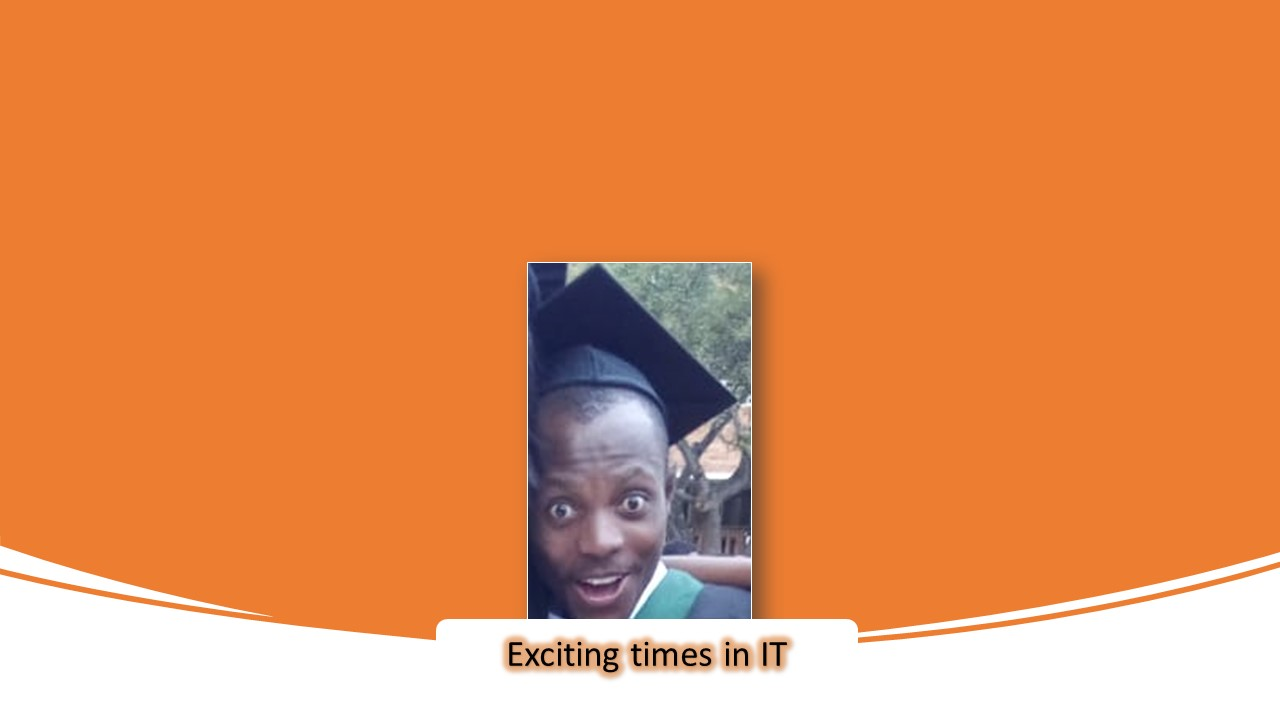
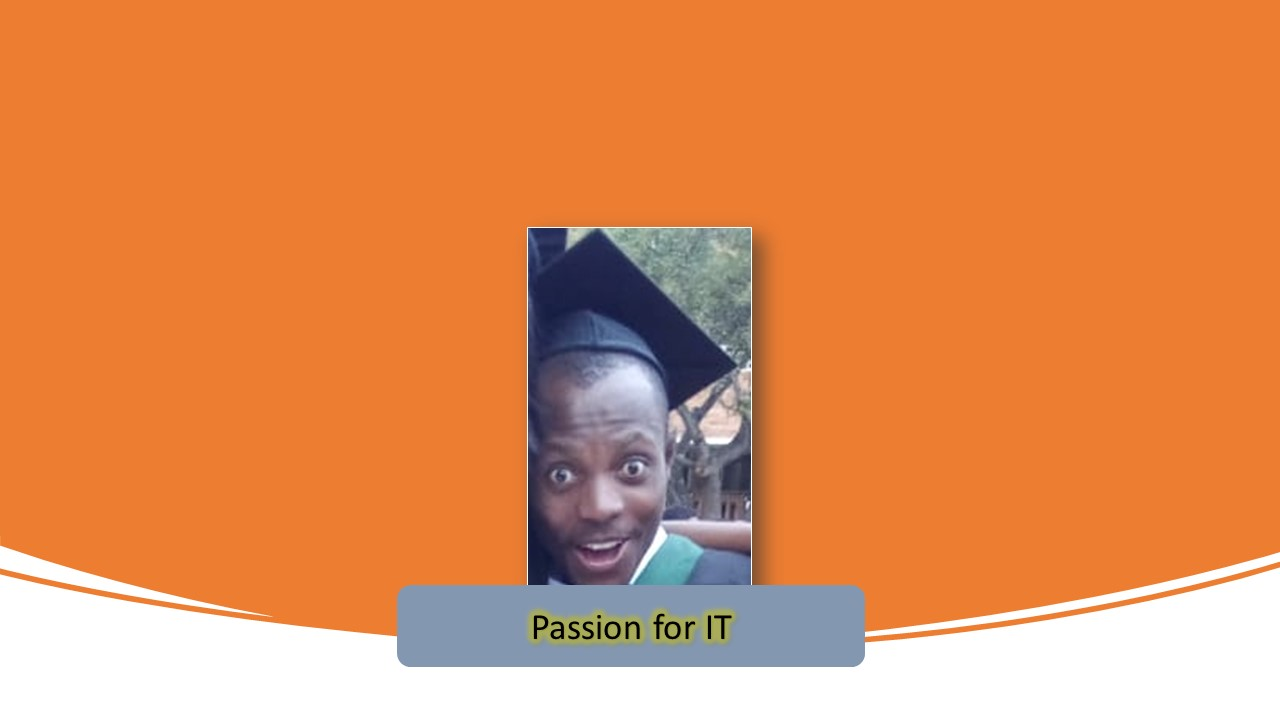
Edited standard-page.html, Slide2.JPG, Slide1.JPG and Slide3.JPG

Changed region(s): [[0.3125, 0.3056, 0.6875, 0.9472]]

diff --git a/theme/assets/standard-page.html b/theme/assets/standard-page.html
@@ -46,10 +46,7 @@
         color: #333;
       }
 
-      /*       .tabs li a:hover {
-      background-color: lightgray;
-      } */
-      .tabs a {
+        .tabs a {
         display: block;
         padding: 10px;
         background-color: #3498db;
@@ -57,10 +54,6 @@
         text-decoration: none;
         border-radius: 5px;
       }
-
-      /*       .tabs a:hover {
-      background-color: Red; /* Change the color on hover */
-      } */
 
       .hexagonal-container {
         width: auto;
@@ -74,6 +67,7 @@
         height: auto;
         object-fit: cover;
         clip-path: polygon(0 0, 100% 0, 100% 100%, 0 100%, 0 50%);
+        clip-path: inset(22% 0 0 0);
         border-radius: 10px;
         background-clip: padding-box;
         mask-image: linear-gradient(to top, transparent 10%, white, white 90%, transparent);
@@ -120,7 +114,7 @@
       .slideshow-container {
         /*         background-color:#40E0D0;  */
         position: relative;
-        height: 50vh;
+        height: 45vh;
         overflow: hidden;
         display: flex;
         justify-content: center;
@@ -138,12 +132,12 @@
         display: flex;
         justify-content: center;
         align-items: center;
-        animation: slide-animation 50s linear infinite;
+        animation: slide-animation 55s linear infinite;
       }
 
       .slideshow img {
         filter: brightness(1.2) contrast(1.5) saturate(1.2);
-        height: 50vh; /* Adjust the image height as needed */
+        height: 40vh; /* Adjust the image height as needed */
         width: auto; /* Automatically adjust the width */
         object-fit: contain; /* Maintain aspect ratio and fit within the container */
       }
@@ -216,16 +210,6 @@
 
       }
 
-      .me-content {
-        display: flex;
-        align-items: center;
-        justify-content: center;
-      }
-
-      .me-content span {
-        padding: 10px;
-      }
-
     </style>
 
   </head>
@@ -251,7 +235,7 @@
     <main>
 
       <div class="message">
-        <span class="moving-text">Please feel free to click on any of the tabs above,To know about me &#x1F914;</span>
+        <span class="moving-text"><br>Please feel free to click on any of the tabs above,To know about me &#x1F914;</span>
       </div>
       <div class="about-site">
         <h1>Hello! </h1>
@@ -297,14 +281,14 @@
 
     <script src="https://cdnjs.cloudflare.com/ajax/libs/font-awesome/5.15.3/js/all.min.js"></script>
 
-    <div class="me-content">
 
-      <span>Names: Thabang Rapotu</span>
-      <span>Email: rapotuti@gmail.com</span>
-      <span>Contact number: (+27)71-104-3768</span>
-      <span>Address: Johannesburg, Gauteng </span>
-    </div>
+    <footer style="position: fixed; bottom: 0; left: 0; width: 100%; padding: 20px; text-align: center;">
+      <span style="padding-left: 20px;">Names: Thabang Rapotu</span>
+      <span style="padding-left: 20px;">Email: rapotuti@gmail.com</span>
+      <span style="padding-left: 20px;">Contact number: (+27)71-104-3768</span>
+      <span style="padding-left: 20px;">Address: Johannesburg, Gauteng </span>
 
+    </footer>
 
 
   </body>
